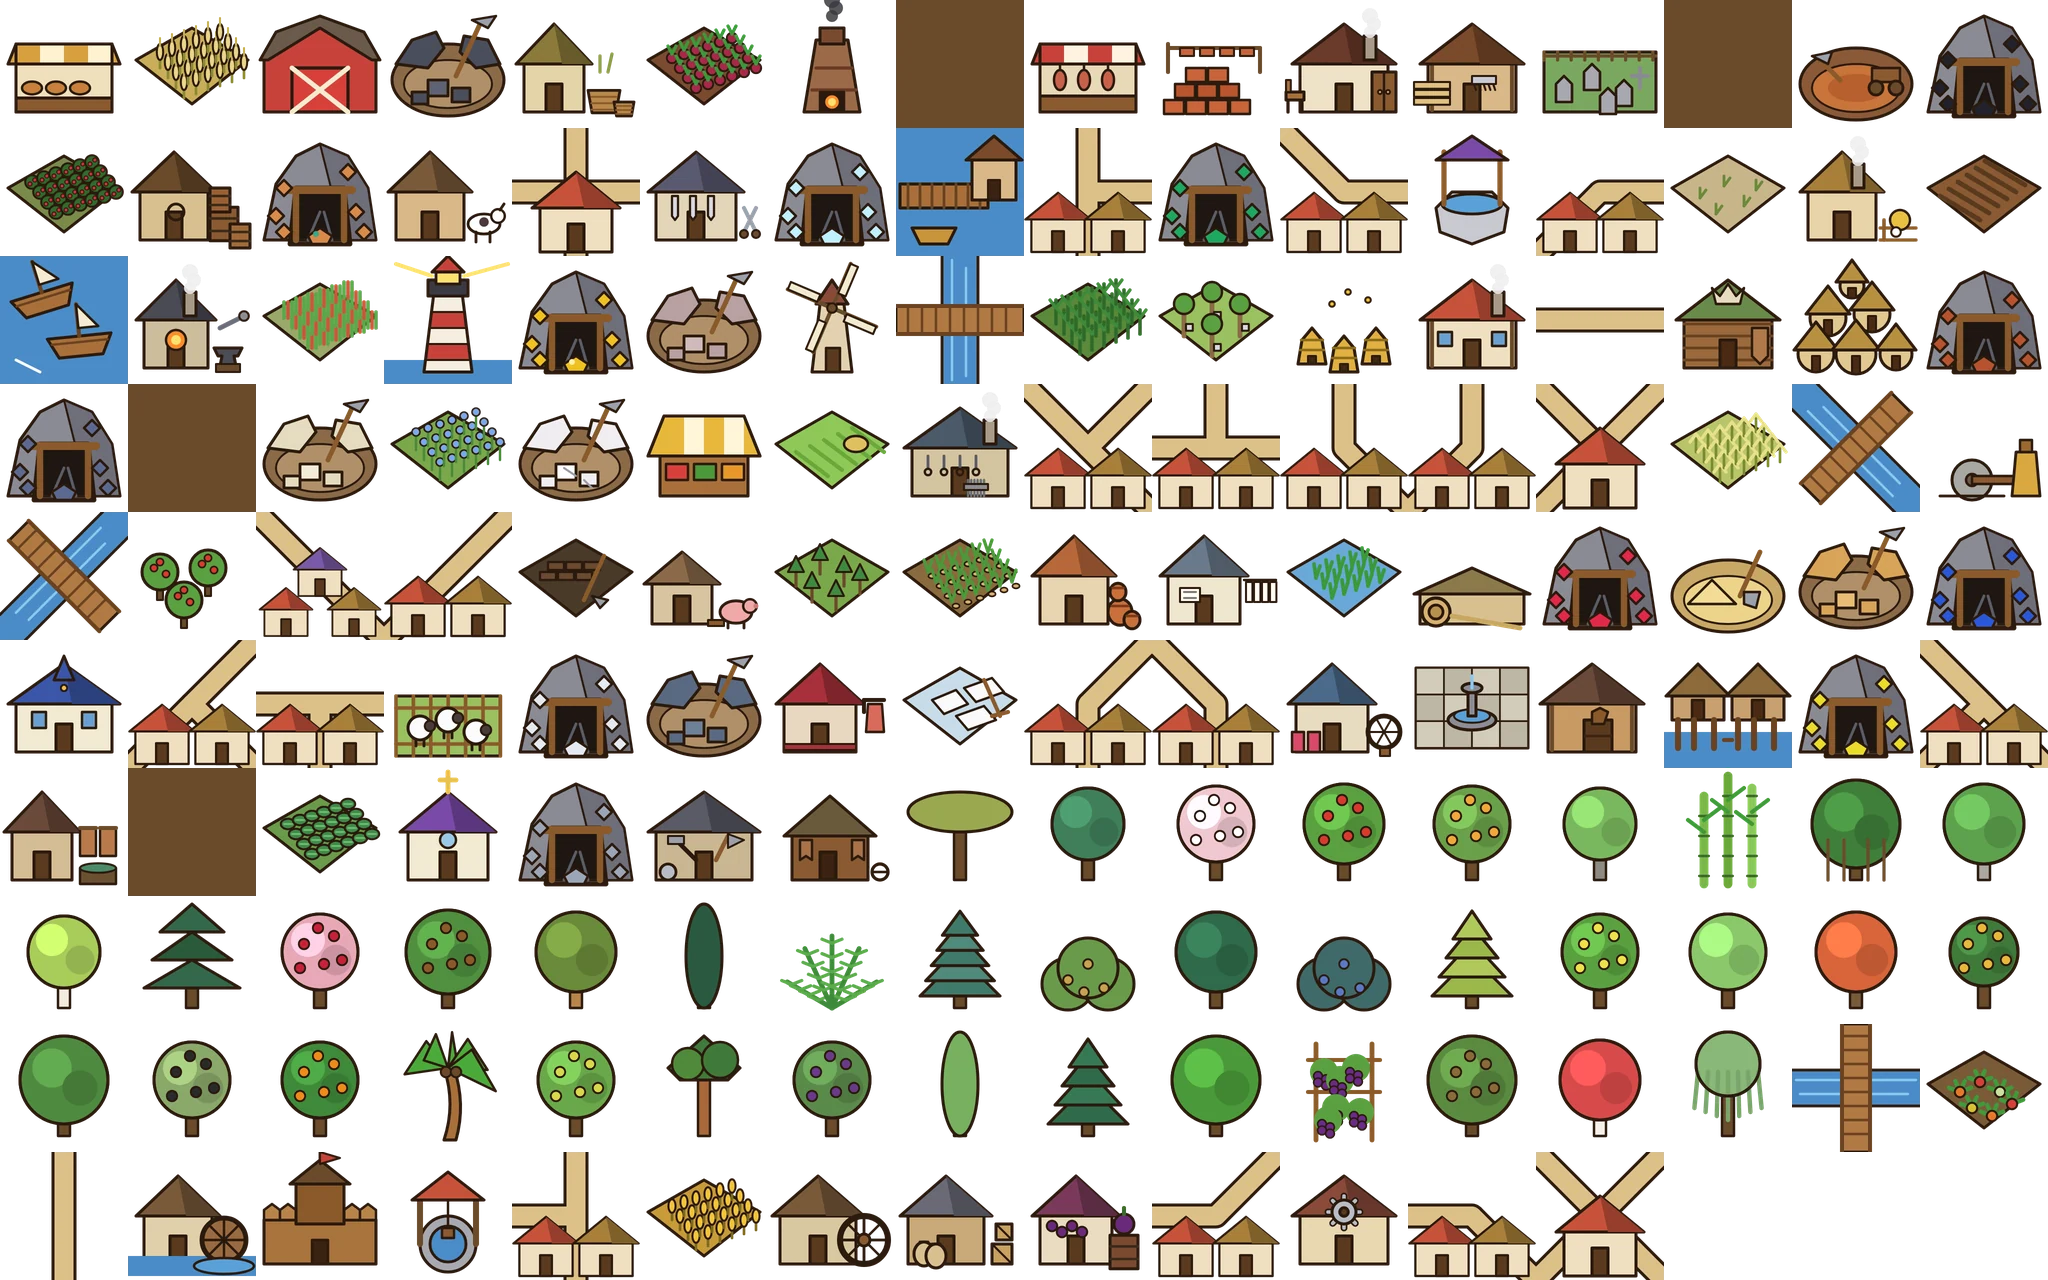
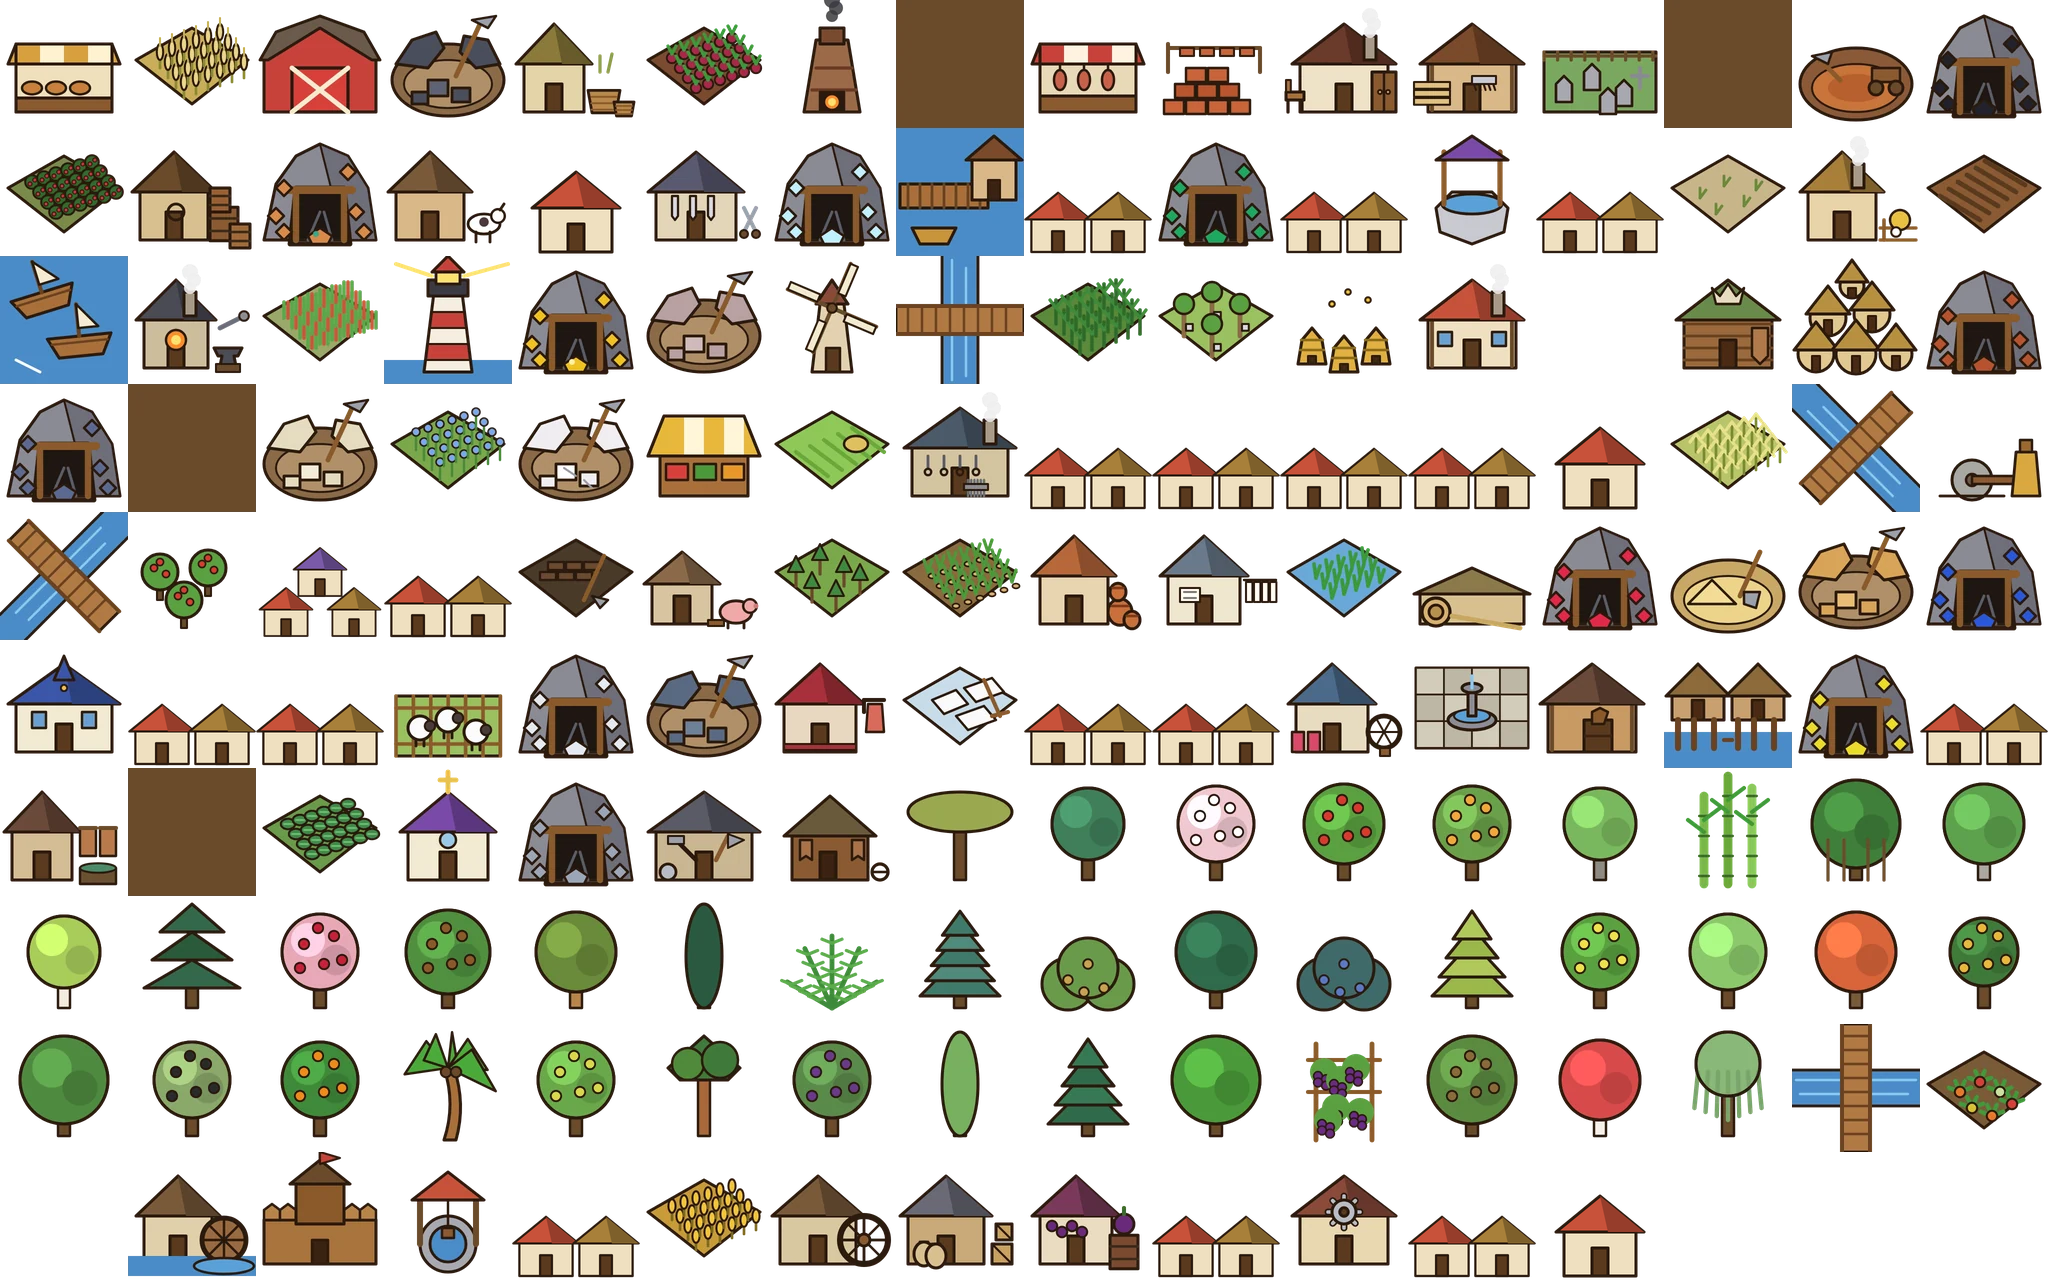
Сайт: слой «Дороги»

diff --git a/index.html b/index.html
@@ -453,6 +453,7 @@
       <label class="layer-line"><input type="checkbox" id="layerBoundaries" checked><span data-i18n="layerBoundaries">Границы владений</span></label>
       <label class="layer-line"><input type="checkbox" id="layerSettlements" checked><span data-i18n="layerSettlements">Маркеры поселений</span></label>
       <label class="layer-line"><input type="checkbox" id="layerResources" checked><span data-i18n="layerResources">Значки месторождений</span></label>
+      <label class="layer-line"><input type="checkbox" id="layerRoads" checked><span data-i18n="layerRoads">Дороги</span></label>
       <label class="layer-line"><input type="checkbox" id="layerGrid" checked><span data-i18n="layerGrid">Сетка клеток</span></label>
       <label class="layer-line"><input type="checkbox" id="layerNature" checked><span data-i18n="layerNature">Деревья и горы</span></label>
       <label class="layer-line"><input type="checkbox" id="layerBuildings" checked><span data-i18n="layerBuildings">Значки зданий</span></label>
@@ -484,7 +485,7 @@ const I18N = {
     coordinatesLabel: "Координаты", terrainLabel: "Местность", zoomLabel: "Масштаб",
     layersTitle: "Слои карты",
     layerBoundaries: "Границы владений", layerSettlements: "Маркеры поселений",
-    layerResources: "Значки месторождений", layerBuildings: "Значки зданий", layerNature: "Деревья и горы", layerGrid: "Сетка клеток", legHouse: "Дом", legField: "Поле, сад", legBarn: "Амбар, хлев", legSchool: "Школа", legTemple: "Храм", legMarket: "Рынок", legWorkshop: "Мастерская", legQuarry: "Карьер", legMine: "Рудник", legWell: "Колодец", legRoad: "Дорога", legConifer: "Хвойное", legBroad: "Лиственное", legFruit: "Плодовое", legMountain: "Гора", legPlateau: "Плато", legendTitle: "Легенда значков", legCastle: "Замок", layerWalls: "Стены и укрепления",
+    layerResources: "Значки месторождений", layerBuildings: "Значки зданий", layerNature: "Деревья и горы", layerGrid: "Сетка клеток", layerRoads: "Дороги", legHouse: "Дом", legField: "Поле, сад", legBarn: "Амбар, хлев", legSchool: "Школа", legTemple: "Храм", legMarket: "Рынок", legWorkshop: "Мастерская", legQuarry: "Карьер", legMine: "Рудник", legWell: "Колодец", legRoad: "Дорога", legConifer: "Хвойное", legBroad: "Лиственное", legFruit: "Плодовое", legMountain: "Гора", legPlateau: "Плато", legendTitle: "Легенда значков", legCastle: "Замок", layerWalls: "Стены и укрепления",
     layerFailures: "Ошибки проверки", layersOwners: "Владения",
     layerFreeOnly: "Только свободные клетки",
     snapshotFrom: "Снимок от", updatedPrefix: "обновлено", justNow: "только что",
@@ -509,7 +510,7 @@ const I18N = {
     coordinatesLabel: "Coordinates", terrainLabel: "Terrain", zoomLabel: "Zoom",
     layersTitle: "Map layers",
     layerBoundaries: "Domain borders", layerSettlements: "Settlement markers",
-    layerResources: "Deposit markers", layerBuildings: "Building icons", layerNature: "Trees & mountains", layerGrid: "Cell grid", legHouse: "House", legField: "Field, orchard", legBarn: "Barn, stable", legSchool: "School", legTemple: "Temple", legMarket: "Market", legWorkshop: "Workshop", legQuarry: "Quarry", legMine: "Mine", legWell: "Well", legRoad: "Road", legConifer: "Conifer", legBroad: "Broadleaf", legFruit: "Fruit tree", legMountain: "Mountain", legPlateau: "Plateau", legendTitle: "Icon legend", legCastle: "Castle", layerWalls: "Walls & fortifications",
+    layerResources: "Deposit markers", layerBuildings: "Building icons", layerNature: "Trees & mountains", layerGrid: "Cell grid", layerRoads: "Roads", legHouse: "House", legField: "Field, orchard", legBarn: "Barn, stable", legSchool: "School", legTemple: "Temple", legMarket: "Market", legWorkshop: "Workshop", legQuarry: "Quarry", legMine: "Mine", legWell: "Well", legRoad: "Road", legConifer: "Conifer", legBroad: "Broadleaf", legFruit: "Fruit tree", legMountain: "Mountain", legPlateau: "Plateau", legendTitle: "Icon legend", legCastle: "Castle", layerWalls: "Walls & fortifications",
     layerFailures: "Scan failures", layersOwners: "Domains",
     layerFreeOnly: "Free cells only",
     snapshotFrom: "Snapshot from", updatedPrefix: "updated", justNow: "just now",
@@ -921,6 +922,7 @@ let showWalls = true;
 let showBuildings = true;
 let showNature = true;
 let showGrid = true;
+let showRoads = true;
 let showFreeOnly = false; // слой: только свободные клетки (выбранного типа или все месторождения)
 let selectedOwnerKey = null; // an ownerIdx, or null — spotlight one settlement's land
 
@@ -1008,6 +1010,7 @@ for (const [id, setter] of [
   ["layerBuildings", v => showBuildings = v],
   ["layerNature", v => showNature = v],
   ["layerGrid", v => showGrid = v],
+  ["layerRoads", v => showRoads = v],
   ["layerFailures", v => showFailed = v],
   ["layerFreeOnly", v => { showFreeOnly = v; cachedResourceMarkers = null; cachedFreeDeposits = null; }],
 ]) {
@@ -1493,7 +1496,51 @@ function drawResourceMarkers(viewW, viewH, size, dim) {
 // Значки зданий на свободных клетках (buildings.json рядом с index.html:
 // {ключ_континента: [[x, y, тип], ...]}). Рисуются при крупном масштабе.
 let BUILDINGS = {};
-fetch("buildings.json").then(r => r.ok ? r.json() : {}).then(j => { BUILDINGS = j; render(); }).catch(() => {});
+fetch("buildings.json").then(r => r.ok ? r.json() : {}).then(j => { BUILDINGS = j; roadCache = {}; render(); }).catch(() => {});
+// Дороги: клетки с дорогой (типы улиц/перекрёстков/развилок/мостов из buildings.json
+// + roads.json — клетки, где в описании земли стоит значок дороги) соединяются
+// линиями между соседними клетками; на плитках остаются только дома.
+let ROADS = {}, roadCache = {};
+fetch("roads.json").then(r => r.ok ? r.json() : {}).then(j => { ROADS = j; roadCache = {}; render(); }).catch(() => {});
+const ROAD_TYPES = new Set(["hstreet","vstreet","crossing","xcross","ostreet","orstreet","hbridge","vbridge","obridge","orbridge"]);
+function roadKey(x, y) { return (x + 50000) * 200000 + (y + 50000); }
+function getRoadSet() {
+  const key = ALL_DATA.continents[currentContinentIdx].key;
+  if (roadCache[key]) return roadCache[key];
+  const set = new Set(), pts = [];
+  const add = (x, y) => { const k = roadKey(x, y); if (!set.has(k)) { set.add(k); pts.push(x, y); } };
+  for (const b of BUILDINGS[key] || []) { const t = b[2]; if (ROAD_TYPES.has(t) || t.endsWith("strt") || t.endsWith("fork")) add(b[0], b[1]); }
+  const r = ROADS[key] || [];
+  for (let i = 0; i < r.length; i += 2) add(r[i], r[i + 1]);
+  return roadCache[key] = { set, pts };
+}
+function drawRoads(viewW, viewH, sz, dim) {
+  if (!showRoads || sz < 4 || selectedOwnerKey !== null) return;
+  const { set, pts } = getRoadSet(); if (!pts.length) return;
+  const has = (x, y) => set.has(roadKey(x, y));
+  const segs = [], dots = [], pad = sz * 2;
+  for (let i = 0; i < pts.length; i += 2) {
+    const x = pts[i], y = pts[i + 1], [sx, sy] = worldToScreen(x, y);
+    if (sx < -pad || sy < -pad || sx > viewW + pad || sy > viewH + pad) continue;
+    const cx = sx + sz / 2, cy = sy + sz / 2;
+    const N = has(x, y - 1), S = has(x, y + 1), E = has(x + 1, y), W = has(x - 1, y);
+    const SE = !S && !E && has(x + 1, y + 1), SW = !S && !W && has(x - 1, y + 1);
+    const NE = !N && !E && has(x + 1, y - 1), NW = !N && !W && has(x - 1, y - 1);
+    if (E) segs.push(cx, cy, cx + sz, cy);
+    if (S) segs.push(cx, cy, cx, cy + sz);
+    if (SE) segs.push(cx, cy, cx + sz, cy + sz);
+    if (SW) segs.push(cx, cy, cx - sz, cy + sz);
+    if (!(N || S || E || W || SE || SW || NE || NW)) dots.push(cx, cy);
+  }
+  ctx.save(); ctx.globalAlpha = dim ? .3 : 1; ctx.lineCap = "round";
+  for (const [w, col] of [[sz * 0.30, "#2b1a0e"], [sz * 0.19, "#dcc088"]]) {
+    ctx.strokeStyle = col; ctx.fillStyle = col; ctx.lineWidth = w; ctx.beginPath();
+    for (let i = 0; i < segs.length; i += 4) { ctx.moveTo(segs[i], segs[i + 1]); ctx.lineTo(segs[i + 2], segs[i + 3]); }
+    ctx.stroke();
+    for (let i = 0; i < dots.length; i += 2) { ctx.beginPath(); ctx.arc(dots[i], dots[i + 1], w / 2, 0, Math.PI * 2); ctx.fill(); }
+  }
+  ctx.restore();
+}
 const BLD_CAT = {
   hstreet:"road", vstreet:"road", crossing:"house", xcross:"house", square:"market", market:"market",
   farm:"house", hunting:"house", school:"school", temple:"temple", well:"well",
@@ -1520,7 +1567,7 @@ const ICON_IMG = {};
 const USE_TYPE_ICONS = true;
 const TYPE_IDS = ["bakery", "barley", "barn", "basalt", "basketry", "beet", "bfurnace", "bkhouse", "butcher", "byard", "cabinet", "carpent", "cemetery", "charcoal", "clay", "coal", "coffee", "cooper", "copper", "cowshed", "crossing", "cutlery", "diamond", "dock", "efork", "emerald", "enwstrt", "esfont", "eswstrt", "fallow", "farm", "field", "fishboat", "forge", "glasswrt", "glthouse", "gold", "granite", "grnmill", "hbridge", "hemp", "hevea", "hive", "house", "hstreet", "hunting", "hut", "iron", "lead", "limekiln", "limeston", "linen", "marble", "market", "meadow", "nailfac", "nefork", "nfork", "nsestrt", "nswstrt", "nwfork", "oat", "obridge", "oilmill", "orbridge", "orchard", "orstreet", "ostreet", "peat", "pigsty", "plant", "potato", "pottery", "pprmill", "rice", "ropefac", "ruby", "sand", "sandston", "saphir", "school", "sefork", "sfork", "sheepfld", "silver", "slate", "slaught", "smarsh", "snestrt", "snwstrt", "spinfac", "square", "stable", "sthouse", "sulfur", "swfork", "tannery", "tarkiln", "tea", "temple", "tin", "toolfac", "traphut", "tree_acacia", "tree_alder", "tree_almond", "tree_apple", "tree_apricot", "tree_ash", "tree_bamboo", "tree_banyan", "tree_beech", "tree_birch", "tree_cedar", "tree_cherry", "tree_chestnut", "tree_corkoak", "tree_cypress", "tree_fern", "tree_fir", "tree_hazel", "tree_holmoak", "tree_juniper", "tree_larch", "tree_lemon", "tree_lime", "tree_maple", "tree_nutmeg", "tree_oak", "tree_olive", "tree_orange", "tree_palm", "tree_pear", "tree_pine", "tree_plum", "tree_poplar", "tree_spruce", "tree_teak", "tree_vine", "tree_walnut", "tree_weirwood", "tree_willow", "vbridge", "vgarden", "vstreet", "watmill", "wcastle", "well", "wfork", "wheat", "wheelwr", "whouse", "winery", "wnestrt", "workshop", "wsestrt", "xcross"];
 const TYPE_IDX = {}; TYPE_IDS.forEach((k, i) => TYPE_IDX[k] = i);
-const typeAtlas = new Image(); typeAtlas.onload = () => { render(); if (window.drawLegendIcons) drawLegendIcons(); }; typeAtlas.src = "assets/map-icons/types.webp?v=71f66315";
+const typeAtlas = new Image(); typeAtlas.onload = () => { render(); if (window.drawLegendIcons) drawLegendIcons(); }; typeAtlas.src = "assets/map-icons/types.webp?v=1a63665a";
 function drawTypeIcon(c, id, x, y, s) {
   const i = TYPE_IDX[id]; if (i === undefined || !typeAtlas.complete || !typeAtlas.naturalWidth) return false;
   c.drawImage(typeAtlas, (i % 16) * 128, ((i / 16) | 0) * 128, 128, 128, x, y, s, s); return true;
@@ -1807,6 +1854,7 @@ function render() {
   if (mapTools.mode === "resources" || mapTools.resourceFilterActive) mapTools.drawResourceResults(viewW, viewH, sz);
   else if (selected !== null || showFreeOnly) drawResourceMarkers(viewW, viewH, sz, dim);
   drawWalls(viewW, viewH, sz, dim);
+  drawRoads(viewW, viewH, sz, dim);
   drawNatureIcons(viewW, viewH, sz, dim);
   drawBuildings(viewW, viewH, sz, dim);
 
